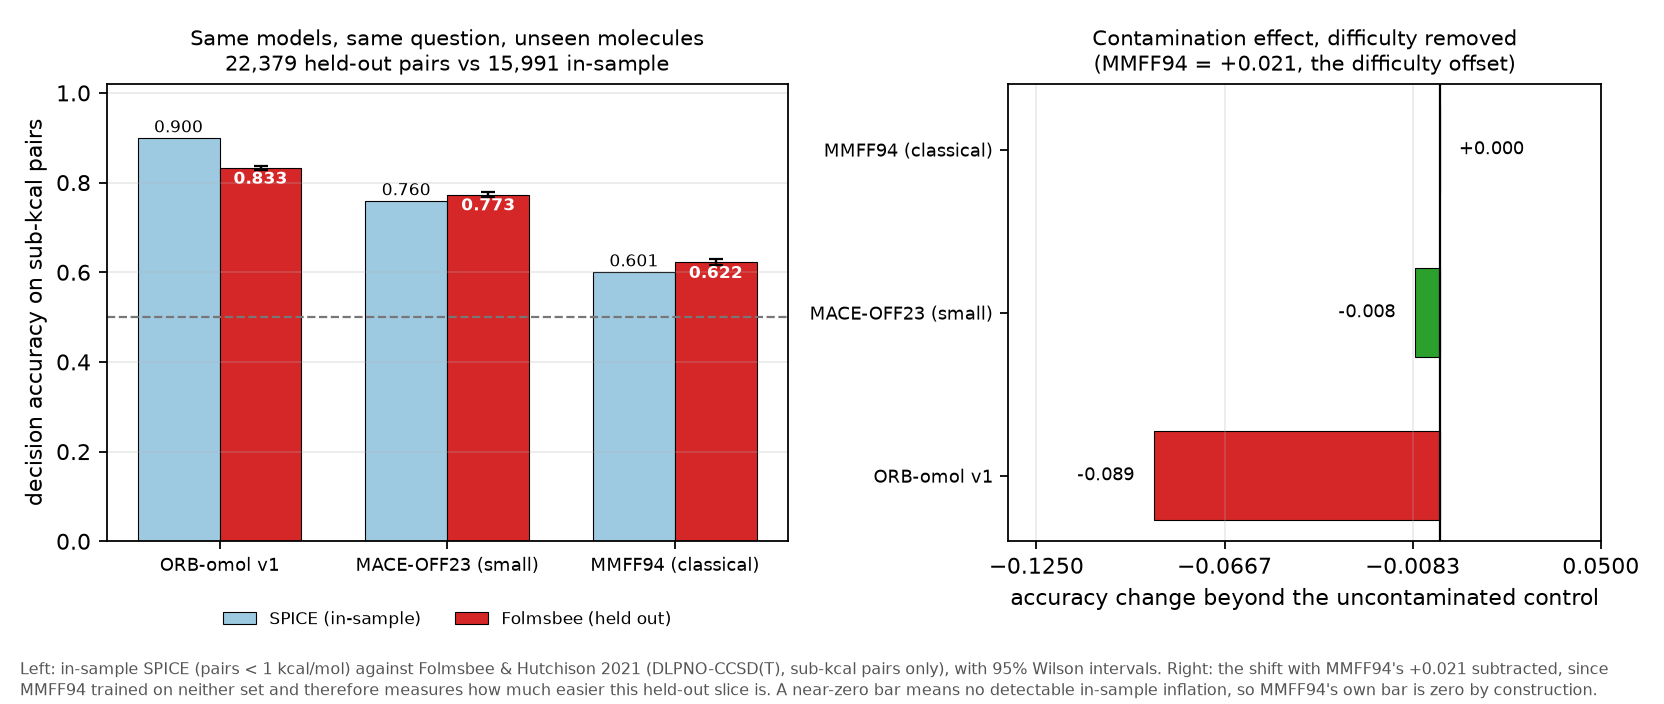
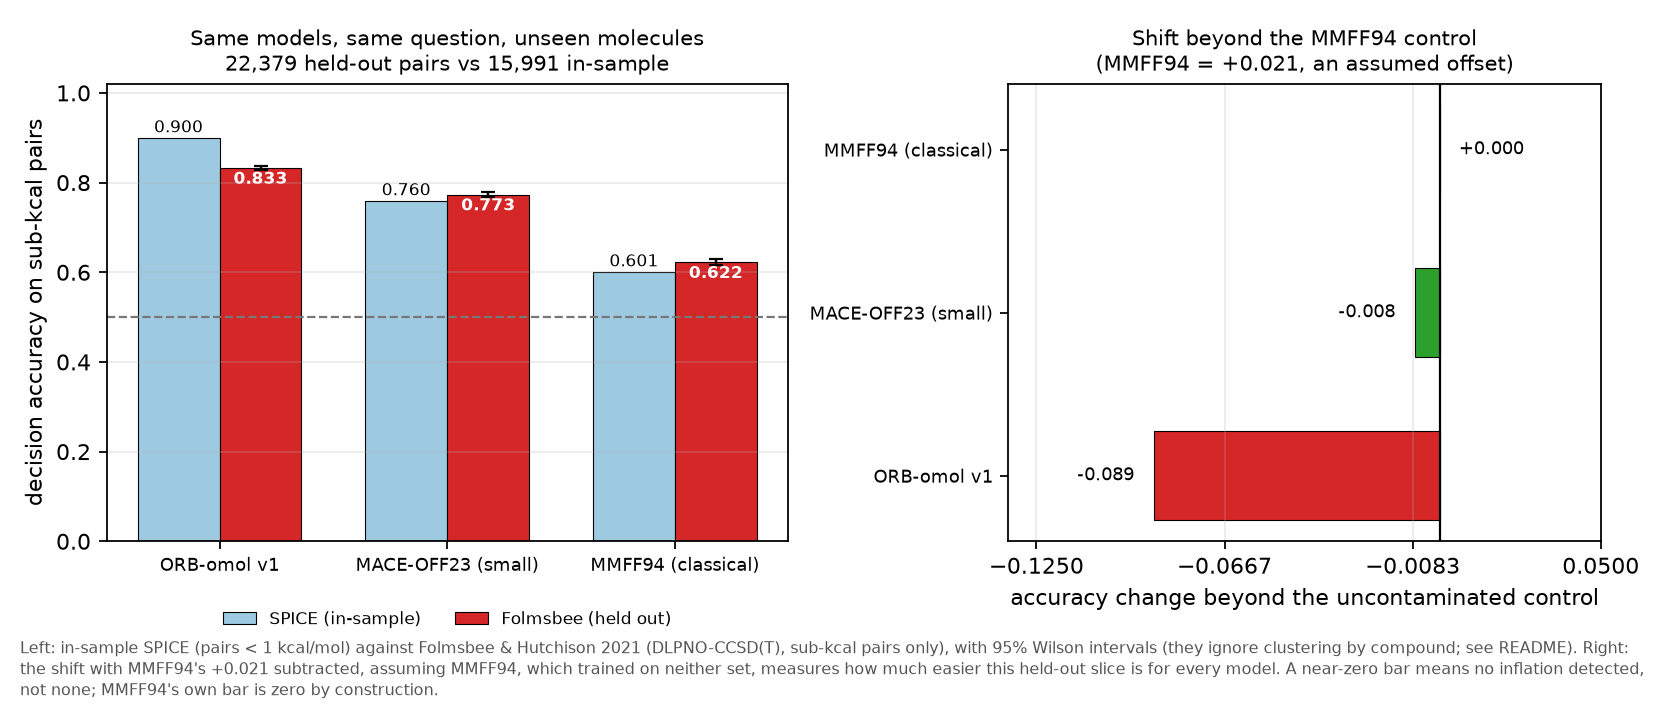
README: correct the stale and overstated claims from review R2 (re-measured)
Every number below was re-measured from the committed artefacts
(results/decisions_*_all.csv, summary.csv, conformers.jsonl, pairs_manifest.json,
heldout_*); none is copied from the review.

- MACE excess over the always-B>A constant: +0.212 -> +0.226 (constant scored on
  each model's own pairs reads 0.534 for all three; ORB +0.366, MMFF +0.067 hold).
- Pairwise differences (common 15,578 pairs, 1,530-molecule bootstrap):
  ORB-MACE +0.157 [0.149,0.166] -> +0.144 [0.135,0.152];
  MACE-MMFF +0.185 [0.174,0.197] -> +0.161 [0.150,0.171].
- Bio slice: "MMFF94 0.563 -> 0.552" -> "0.601 -> 0.552".
- Held-out intervals were unclustered Wilson: compound cluster bootstrap gives ORB
  [0.823,0.841], MACE [0.761,0.784], MMFF [0.607,0.637] (DEFF 3.4-5.2); tie rule
  disclosed (567 near-ties counted on Folmsbee, excluded on SPICE; tie-excluded
  0.840/0.780/0.624).
- Beyond-difficulty now carries intervals (SPICE molecules and Folmsbee compounds
  resampled independently): ORB -0.089 [-0.107,-0.070], MACE -0.008
  [-0.027,+0.012], SE 0.010 -> detectable only above ~0.03. "MACE shows no
  detectable inflation ... its SPICE number was never inflated" rewritten as "no
  inflation detected", with the MMFF-offset assumption stated; the gap-bin
  argument dropped because MMFF94 also scores higher on Folmsbee in every bin.
- Null p: "p = 0.005" -> "p < 0.005" (1/201 is the floor of 200 shuffles); "the
  only reason to believe a 0.900" removed.
[…]

Changed region(s): [[0.0, 0.9062, 1.0, 1.0], [0.6562, 0.0312, 0.9062, 0.125]]

diff --git a/scripts/make_figures.py b/scripts/make_figures.py
@@ -504,8 +504,8 @@ def fig_heldout(_df: pd.DataFrame | None = None) -> None:
     # Two SHORT lines. The explanatory clause ("...so its own bar is zero by
     # construction") made line 2 wider than the half-canvas and clipped it at the
     # figure edge; the explanation belongs in the footer, which wraps.
-    ax2.set_title("Contamination effect, difficulty removed\n"
-                  f"(MMFF94 = {offset:+.3f}, the difficulty offset)",
+    ax2.set_title("Shift beyond the MMFF94 control\n"
+                  f"(MMFF94 = {offset:+.3f}, an assumed offset)",
                   fontsize=9.5)
     ax2.set_xlim(min(shifts) - 0.045, max(shifts) + 0.045)
     # Four ticks, not the default eight: at this narrow range the labels ran
@@ -516,11 +516,12 @@ def fig_heldout(_df: pd.DataFrame | None = None) -> None:
 
     _footer(fig, "Left: in-sample SPICE (pairs < 1 kcal/mol) against Folmsbee & "
                  "Hutchison 2021 (DLPNO-CCSD(T), sub-kcal pairs only), with 95% "
-                 f"Wilson intervals. Right: the shift with MMFF94's {offset:+.3f} "
-                 "subtracted, since MMFF94 trained on neither set and therefore "
-                 "measures how much easier this held-out slice is. A near-zero bar "
-                 "means no detectable in-sample inflation, so MMFF94's own bar "
-                 "is zero by construction.")
+                 f"Wilson intervals (they ignore clustering by compound; see "
+                 f"README). Right: the shift with MMFF94's {offset:+.3f} "
+                 "subtracted, assuming MMFF94, which trained on neither set, "
+                 "measures how much easier this held-out slice is for every "
+                 "model. A near-zero bar means no inflation detected, not none; "
+                 "MMFF94's own bar is zero by construction.")
     fig.tight_layout(rect=(0, 0.05, 1, 1))
     fig.savefig(FIGS / "heldout.png", dpi=160)
     plt.close(fig)

diff --git a/scripts/reconcile_heldout.py b/scripts/reconcile_heldout.py
@@ -8,7 +8,8 @@ puts MACE at 0.773 -- no drop at all.
 Three candidate explanations, each tested here:
 
   H1 PSEUDO-REPLICATION. The 30 MPCONF196 pairs come from only 7 compounds, and
-     26 of them from 3 macrocycles. A binomial test over 30 pairs assumes 30
+     26 of them from 3 linear tripeptides (FGG114, GGF01, GFA01 by formula;
+     an earlier version of this note called them macrocycles). A binomial test over 30 pairs assumes 30
      independent observations; it does not have them. Test: cluster bootstrap
      over compounds.
   H2 MOLECULE SIZE. MPCONF196 is macrocycles and peptides (median 64 atoms);

diff --git a/scripts/build_heldout.py b/scripts/build_heldout.py
@@ -16,7 +16,8 @@ What it provides:
 Units, verified not assumed: the shortest contacts in the raw coordinates are
 N-H at 1.922 and C-H at 2.065. Those are correct only as BOHR (1.017 A and
 1.093 A); as Angstrom they would be impossible. Same trap as SPICE, so the same
-conversion, and check_artefacts re-derives it.
+conversion. (scripts/check_artefacts.py does not read the held-out artefacts; an
+earlier version of this docstring said it re-derived this conversion.)
 
 Output: results/heldout_mpconf196.json
   {"pairs": [{id_a, id_b, compound, ref_kcal}], "conformers": {...}}

diff --git a/README.md b/README.md
@@ -26,15 +26,18 @@ lower?* Score the sign. Compare that to the model's own energy error.
 
 | model | licence | scored conformers | decided pairs | **decision accuracy** (95% CI) | median \|ΔE\| error | null control p |
 |---|---|---|---|---|---|---|
-| **ORB-omol v1 (conservative)** | Apache-2.0 | 15,232 | 15,991 | **0.900** (0.895–0.905) | 0.15 kcal/mol | 0.005 |
-| MACE-OFF23 (small) | weights ASL, **non-commercial**; code MIT | 14,913 | 15,717 | **0.760** (0.753–0.766) | 0.45 kcal/mol | 0.005 |
-| MMFF94 (classical force field) | BSD | 14,763 | 15,578 | 0.601 (0.594–0.609) | 1.61 kcal/mol | 0.005 |
+| **ORB-omol v1 (conservative)** | Apache-2.0 | 15,232 | 15,991 | **0.900** (0.895–0.905) | 0.15 kcal/mol | < 0.005 |
+| MACE-OFF23 (small) | weights ASL, **non-commercial**; code MIT | 14,913 | 15,717 | **0.760** (0.753–0.766) | 0.45 kcal/mol | < 0.005 |
+| MMFF94 (classical force field) | BSD | 14,763 | 15,578 | 0.601 (0.594–0.609) | 1.61 kcal/mol | < 0.005 |
 
 **Read this table as an in-sample measurement.** Two of the three models trained
 on SPICE — MACE-OFF23 on ~95% of v1, ORB-omol via OMol25's documented SPICE2 — so
 these numbers are fidelity to their own training data, not generalisation. The
-held-out test further down is where generalisation is measured, and it changes
-which model the result favours. Only MMFF94 was ever a clean row.
+held-out test further down is where generalisation is measured: out of sample the
+order is unchanged (ORB > MACE > MMFF94), but ORB's lead over MACE shrinks from 14
+to 6 points. Only MMFF94 was ever a clean row. The intervals are Wilson intervals
+(about 1.4x too narrow once pairs are clustered by molecule, see Limits), and the
+null-control p is the floor 200 shuffles can report (1/201), not a measured value.
 
 All three rows are recomputed from the committed `results/decisions_*.csv` by
 `scripts/score.py`, and a model only appears here if
@@ -58,15 +61,16 @@ Four things worth taking from that table.
    baseline's units corrected (see "What went wrong"), the three models are
    monotone in *every* error measure: median gap error 0.15 / 0.45 / 1.61 kcal/mol
    gives accuracy 0.900 / 0.760 / 0.601. Pairwise differences are robust to
-   clustering by molecule — ORB−MACE +0.157 [0.149, 0.166], MACE−MMFF +0.185
-   [0.174, 0.197] — so this is not a tie. **I do not fit a trend line:** three
+   clustering by molecule — on the 15,578 pairs all three models scored, with a
+   bootstrap over their 1,530 molecules, ORB−MACE +0.144 [0.135, 0.152] and
+   MACE−MMFF +0.161 [0.150, 0.171] — so this is not a tie. **I do not fit a trend line:** three
    points cannot distinguish a curve from a coincidence, and an earlier draft of
    this README claimed the two were independent, which the corrected units
    refuted.
 
 4. **The biomolecular slice is consistently harder.** Every model drops on
    peptides and solvated amino acids: ORB 0.900 → **0.855**, MACE 0.760 → **0.647**,
-   MMFF94 0.563 → 0.552. See
+   MMFF94 0.601 → 0.552. See
    [`figures/accuracy_by_subset.png`](figures/accuracy_by_subset.png). Part of that
    is composition, not chemistry — see Limits.
 
@@ -76,8 +80,9 @@ Four things worth taking from that table.
 
 Pair orientation is arbitrary (whichever conformer happened to be index A), and
 the QM gaps are not symmetric: **always guessing "B is higher" scores 0.534** on
-these pairs. Against that constant, the excess over guessing is ORB **+0.366**,
-MACE **+0.212**, and MMFF **+0.067**.
+these pairs. Against that constant, scored on each model's own pairs (where it
+reads 0.534 for all three), the excess over guessing is ORB **+0.366**,
+MACE **+0.226**, and MMFF **+0.067**.
 
 MMFF94's edge is small but not noise: it beats the constant predictor on 4,125
 pairs and loses on 3,079 (McNemar-style sign test p ≈ 6e-35). So the classical
@@ -125,34 +130,58 @@ GPU: re-running the unchanged neutral compounds moved 187 of their 20,436 pair
 decisions (largest gap change 0.04 kcal/mol), which is why the overall figure is
 0.833 rather than the 0.834 a charged-only re-run predicted.
 
-MMFF94 has never seen either dataset, so its +0.021 is a measure of how much
-easier this particular held-out slice is. Subtracting that offset isolates
-contamination from difficulty:
+The intervals in the table are Wilson intervals, which treat the ~32 pairs per
+compound as independent. They are not: resampling whole compounds (cluster
+bootstrap, 4,000 draws) widens them to ORB [0.823, 0.841], MACE [0.761, 0.784]
+and MMFF94 [0.607, 0.637], a design effect of 3.4–5.2. The Folmsbee column also
+counts every sub-kcal pair, including 567 near-ties (|gap| ≤ 0.01 kcal/mol; 553
+for MMFF94) that the SPICE column excludes; with ties excluded the held-out
+figures are 0.840 / 0.780 / 0.624.
 
-- **ORB-omol loses about 9 points beyond difficulty** — evidence of in-sample
-  inflation, consistent with OMol25's documented inclusion of SPICE2.
-- **MACE-OFF23 shows no detectable inflation** (−0.008) despite training on ~95%
-  of SPICE. Its in-sample 0.760 transfers. That is the opposite of what I
-  expected, and it is what the data say.
+MMFF94 has never seen either dataset, so I use its +0.021 as an estimate of how
+much easier this held-out slice is, and subtract it. That is an assumption, not a
+measurement: it treats slice difficulty as the same for every model. Intervals
+below resample SPICE molecules and Folmsbee compounds independently (4,000 draws).
 
-Accuracy by gap bin agrees: on Folmsbee, MACE beats its own in-sample SPICE rate
-in *every* bin (0.595 vs 0.533 under 0.1 kcal/mol, 0.769 vs 0.623 at 0.1–0.25),
-so its SPICE number was never inflated.
+- **ORB-omol loses about 9 points beyond difficulty** (−0.089, 95% CI −0.107 to
+  −0.070) — consistent with in-sample inflation and with OMol25's documented
+  inclusion of SPICE2.
+- **MACE-OFF23: no inflation detected** (−0.008, 95% CI −0.027 to +0.012). That
+  is absence of evidence, not evidence of absence: with a standard error of
+  0.010 this design can only detect an inflation larger than about 0.03 at 80%
+  power.
+
+The difficulty offset is the weak link. Folmsbee's sub-kcal pairs sit much closer
+to ties than SPICE's, ML accuracy rises steeply with the gap while MMFF94's is
+nearly flat, MMFF94 scores a different pair set, and the reference level changes
+from ωB97M-D3(BJ) (MACE-OFF23's training level) to DLPNO-CCSD(T). A reviewer
+showed that equally defensible re-specifications (gap-matched, or restricted to
+MACE-OFF23's own training domain) push MACE-OFF23's figure to either side of
+zero, so its size is not identified.
+
+The gap bins cannot separate the two either. In the 0.1–0.25 kcal/mol bin MACE
+scores 0.769 on Folmsbee against 0.623 on SPICE — but MMFF94, which trained on
+neither set, also scores higher on Folmsbee in every bin (0.606 vs 0.515 in the
+same one).
 
 **The MPCONF196 result I published earlier is withdrawn.** I reported that
 MACE's sub-kcal accuracy "collapses out of sample, 0.760 → 0.467, p = 0.0008."
 That p-value was computed over 30 pairs as if they were 30 independent
 observations. They are not: the 30 pairs come from **7 compounds, 26 of them from
-3 macrocycles**. A cluster bootstrap over compounds gives a 95% interval of
+3 compounds** (FGG114 10, GGF01 9, GFA01 7). A cluster bootstrap over compounds gives a 95% interval of
 [0.14, 0.71] — consistent with almost anything. At n = 30 that benchmark cannot
 distinguish a real drop from noise, and the well-powered set contradicts it. The
 number is kept here, labelled, so it cannot be misquoted again.
 
-Why the two differ is not fully resolved. MPCONF196 is macrocycles and peptides
-(median 32 heavy atoms, 15 conformers larger than anything in Folmsbee); Folmsbee
-is drug-like molecules (median 22). A size effect would explain it and is
-plausible, but I have not demonstrated one, so it is a hypothesis rather than a
-finding.
+Why the two differ is not fully resolved, but an earlier version of this
+paragraph called those three compounds macrocycles, and they are not: their
+formulas (C13H17N3O4, C13H17N3O4, C14H19N3O4) are those of linear tripeptides (a
+cyclic one would have lost another H2O; I checked formulas, not geometries). That
+points to composition rather than size. MACE-OFF23's own in-sample accuracy on
+SPICE dipeptides is 0.648 (6,510 pairs), its weakest large subset, so these 30
+pairs probe its known peptide weakness. MPCONF196 as a whole is larger (median 32
+heavy atoms, 15 conformers larger than anything in Folmsbee, whose median is 22),
+but a size effect is not needed to explain these 30 pairs.
 
 ### What this leaves standing
 
@@ -166,9 +195,12 @@ table implied. That is the defensible claim.
 Every accuracy above is checked against the answer-leaking failure mode: shuffle
 which model gap is paired with which quantum gap, 200 times, and rescore. If the
 pipeline were leaking, shuffled pairs would score as well as real ones. Shuffled
-accuracy collapses to ~0.49 for every model (p = 0.005 in all six rows), which is
-what makes the real numbers mean anything. The null is not an optional extra — it
-is the only reason to believe a 0.900.
+accuracy collapses to 0.498–0.502 for every model, and no shuffle reached the
+real accuracy in any of the six rows: p < 0.005, where 1/201 ≈ 0.005 is the
+smallest p-value 200 shuffles can report — a floor, not a measurement. What the
+shuffle shows is that the labels carry signal and the pipeline does not leak the
+answer. It does not by itself make 0.900 right; the raw-energy recomputation in
+`scripts/check_artefacts.py` and the held-out test carry more of that weight.
 
 ## Where the failures live
 
@@ -284,21 +316,23 @@ non-commercial weights permissive after a rewording.
   to point it out:
   - **MACE-OFF23** is trained on ~95% of SPICE v1 (MACE-OFF paper, arXiv 2312.15211,
     Sec. II.2), so scoring it on SPICE 1.1.4 is mostly an **in-sample** evaluation.
-    Its 0.747 is an in-sample number that is still only 0.747.
+    Its 0.760 is an in-sample number that is still only 0.760.
   - **ORB-omol** is trained on OMol25, whose community domain documents SPICE2 — a
     superset of SPICE 1.x. So it is also very likely in-sample at the molecule
     level; geometry-level overlap I cannot verify.
   - **MMFF94** is the only clean out-of-sample row.
   - Read the ML accuracies as *fidelity to their own training data*, not as
-    generalisation. A held-out test on an independent conformer benchmark
-    (Folmsbee, MPCONF196, TorsionNet206) is the missing experiment.
+    generalisation. The held-out test above (Folmsbee, with MPCONF196 as a small
+    check) is the experiment that addresses this; TorsionNet206 has not been run.
 - **Not every pair is a conformer pair, and the wording above overstates it.**
   3,149 of 16,089 pairs (19.6%) come from multi-component systems: the DES370K
   subset is hydrogen-bonded **dimers** (`C=C.[Na+]`), so those pairs are
   intermolecular geometry changes, and the 21 ion-pair molecules are diatomics
   scanned over 2.5-7.4 Å. The ion-pair row is a mechanical failure, not a chemistry
-  failure — all three models return exact-zero gaps beyond ~6 Å, consistent with a
-  graph cutoff — and ORB scores 0.126 there. Excluding those two subsets changes
+  failure — the two ML models return exact-zero gaps there (ORB on 121 of its 143
+  decided ion-pair pairs, MACE-OFF23 on all 74 of its), consistent with a graph
+  cutoff, and ORB scores 0.126 there. MMFF94 has no cutoff now that its
+  inter-fragment terms are on, and scores 1.000 on its 46. Excluding those two subsets changes
   every headline number and is the first thing a follow-up should do.
 - **These geometries are MD snapshots, not relaxed minima.** SPICE's conformers are
   minimised with only a few L-BFGS steps plus a short 100 K MD run, and the parent
@@ -310,15 +344,16 @@ non-commercial weights permissive after a rewording.
   carries no evidence about proteins, nucleic acids, or ligands.
 - **Pairs cluster by molecule and the intervals do not account for it.** The design
   effect is about 2 (ICC 0.10-0.13), so the ORB and MACE intervals should be about
-  1.4x wider than quoted. No conclusion changes — the model differences are far
+  1.4x wider than quoted. The held-out Wilson intervals are worse off (design
+  effect 3.4–5.2); compound-clustered intervals are given beside that table. No conclusion changes — the model differences are far
   larger than that — but the CIs as printed are optimistic.
 - **A conformer pair is a proxy for a chemical decision.** It is the cheapest
   honest proxy — same molecule, real quantum energies, thousands of examples — but
   it is not a reaction energy, a binding affinity, or a barrier. Do not quote these
   numbers as "reaction prediction accuracy".
 - **Three models is not a model zoo.** No trend line is fitted, no ranking beyond
-  these three is implied, and the "energy error does not predict decisions"
-  headline is a statement about these three, not a law.
+  these three is implied, and anything said here about how energy error relates to
+  decision accuracy is a statement about these three, not a law.
 - **Counts differ per model** because a conformer a model cannot evaluate cannot
   be scored in any pair containing it; each row states its own n. MACE-OFF23
   returned NaN on 319 of 15,232 conformers (2.1%). I originally wrote "almost all
@@ -331,12 +366,15 @@ non-commercial weights permissive after a rewording.
   pairs**. It was trained on the neutral ten-element subset of SPICE and accepts
   no charge argument, so part of its gap to ORB is domain mismatch rather than
   model quality. Scored only on its own training domain (neutral, supported
-  elements, no ion pairs) MACE reads about 0.78.
-- **MACE-OFF23 shows float32 precision loss on these molecules.** Its absolute
-  energies sit near −28,000 eV, where float32 resolution is ~0.045 kcal/mol; 441
-  scored pairs (2.8% of decided ones) have a model gap of *exactly* zero and are
-  counted as wrong. Excluding them moves MACE 0.760 → 0.768, so the headline
-  number is the conservative one.
+  elements, no ion pairs) MACE reads 0.796 on 12,476 pairs — the neutral pairs
+  above, since every conformer with an unsupported element already returned NaN.
+- **MACE-OFF23 runs in float64; an earlier version of this paragraph described a
+  float32 run.** Its absolute energies sit near −28,000 eV, where float32
+  resolution is ~0.045 kcal/mol, and the float32 run had 441 exact-zero gaps. The
+  committed run is float64 (`scripts/run_model.py`): 82 of MACE-OFF23's 15,717
+  decided pairs (0.52%) have a model gap of *exactly* zero — the 74 ion pairs
+  above and 8 DES370K dimers, a cutoff effect rather than precision — and are
+  counted as wrong. Excluding them moves MACE 0.760 → 0.764.
 - **The subset split is mine.** SPICE's `subset` labels are read from the archive,
   but the biomolecular / small-molecule grouping is a choice I made; the headline
   numbers do not depend on it.
@@ -359,7 +397,7 @@ scripts/run_model.py           one model, one subprocess, JSON out
 scripts/run_sweep.py           chunked, resumable, per-model venv dispatch, locked
 scripts/verify_completeness.py recomputes which models cover every conformer
 scripts/score.py               sign agreement, error stats, null control
-scripts/make_figures.py        six figures, every number read from a CSV
+scripts/make_figures.py        seven figures, every number read from a CSV
 tests/                         tests: units, sign convention, null, layout, cache
 ```
 
